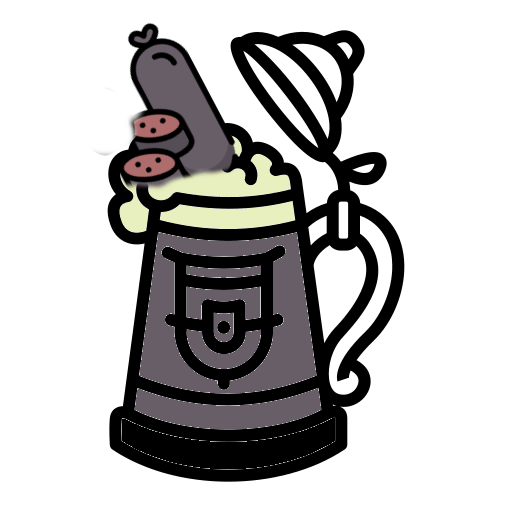
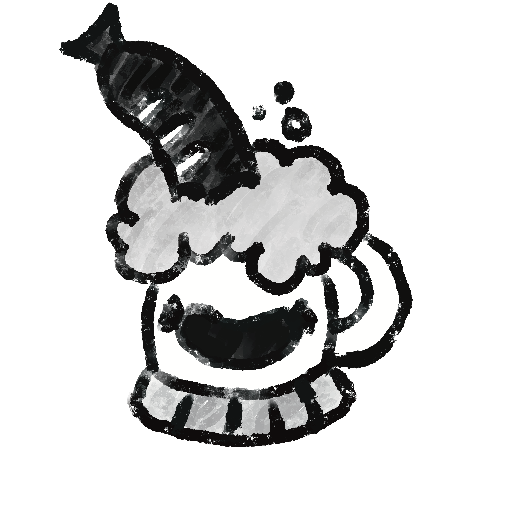
v1.2.1: refactored + end-of-moon support
v1.2.1: Refactored code-base to make it more maintainable + include the below updates:
- In general: wurst-beer is strong stuff, and it might not be the best idea to have your villagers drink it... Proceed with caution.
- Consuming wurst-beer causes drunkness (now also at end of moon event).
- Consuming blutwurst-beer causes drunkness + frenzy (now also at end of moon event).
- Tamed creatures really (really) don't like blutwurst-beer...(now also during end-of-moon event).
- New language support: Ukrainian
- New iconography for (blut)wurst-beer.

diff --git a/Mod.cs b/Mod.cs
@@ -17,13 +17,7 @@ namespace SausageFestModNS
 			WorldManager.instance.GameDataLoader.AddCardToSetCardBag(SetCardBagType.AdvancedFood, "sausagefestmod_blueprint_raw_blood_sausage", 1);
 			WorldManager.instance.GameDataLoader.AddCardToSetCardBag(SetCardBagType.AdvancedFood, "sausagefestmod_blueprint_blutwurst_beer", 1);
 			WorldManager.instance.GameDataLoader.AddCardToSetCardBag(SetCardBagType.AdvancedFood, "sausagefestmod_blueprint_wurst_beer", 1);
-
-			/*
-			* Define SausageFestQuest
-			*/
-			//Quest sausageFestQuest = new Quest()
-			//QuestManager.instance.CurrentQuests.Add(sausageFestQuest);
-
+			
 			Logger.Log("Thorrific's Sausage Fest is now ready! Bon appetit ;)");
         }
     }
@@ -110,9 +104,6 @@ namespace SausageFestModNS
 		}
 	}
 
-
-
-
 	/*
 	* Delirium tremens (DTs) is a severe form of alcohol withdrawal (existing in real life)
 	* that typically occurs in people who have been drinking heavily for an extended period 
@@ -121,13 +112,12 @@ namespace SausageFestModNS
 	* It is characterized by sudden and severe mental or nervous system changes.
 	* It is sometimes represented as seeing pink elephants.
 	*
-	* The "delirium tremes"-mob is a conceptual representation of the above.
-	* - It is angry & aggro when it occurs, wrecking havoc --> Mob
-	* - It can be "tamed" by feeding it strong beer, causing it to get drunk --> Animal
-	* - It becomes "aggro" again once it sobers up --> Mob.
+	* The "Delirium Tremes Wild" is a conceptual representation of the above:
+	* 1. It can spawn by having a villager drink (blood) sausage beer (5% chance)
+	* 2. It is tamed by drinking "sausage beer" (changing it into a DeliriumTremesTamed card)
+	* 3. It is frenzied by drinking "blood sausage beer"
 	*
-	* It's represented as two different creatures below.
-	* 
+	* It's represented as two different creatures below (wild-mob & tamed-villager)
 	*/
 	
 	/*
@@ -146,17 +136,17 @@ namespace SausageFestModNS
 		// this method decides whether a card should stack onto this one
 		protected override bool CanHaveCard(CardData otherCard)
 		{
-			if (otherCard.Id == "sausagefestmod_wurst_beer" || otherCard.Id == "sausagefestmod_blutwurst_beer")
+			if (otherCard is SausageFestWurstBeer)
 			{
 				return true;
 			}
-			return base.CanHaveCard(otherCard); // otherwise, we will let Animal.CanHaveCard decide
+			return false;
 		}
 		
 		// this method is called every frame, it is the CardData equivalent of the Update method
 		public override void UpdateCard()
 		{
-			if (MyGameCard.HasChild && (MyGameCard.Child.CardData.Id == "sausagefestmod_wurst_beer" || MyGameCard.Child.CardData.Id == "sausagefestmod_blutwurst_beer"))
+			if (MyGameCard.GetLeafCard().CardData is SausageFestWurstBeer)
 			{
 				MyGameCard.StartTimer(5f, DrinkingWurstBeer, SokLoc.Translate("sausagefestmod_action_drinking_wurstbeer_status"), GetActionId("DrinkingWurstBeer"));
 			}
@@ -170,23 +160,35 @@ namespace SausageFestModNS
 		[TimedAction("drinking_beer")]
 		public void DrinkingWurstBeer()
 		{
-			if (MyGameCard.HasChild)
+			CardData child = MyGameCard.GetLeafCard().CardData;
+			if (child is SausageFestWurstBeer) {
+				((SausageFestWurstBeer)child).ConsumedBy(this);
+				child.MyGameCard.DestroyCard(); // destroy consumed beer-card
+			}
+		}
+
+		/*
+		* Helper method to make a wild delirium tremes change into a tame version.
+		* It will also become Frenzy as a result of it.
+		*/
+		public static void MakeTame(Combatable vill)
+		{
+			if (vill.Id == "sausagefestmod_delirium_tremens_wild")
 			{
-				if (MyGameCard.Child.CardData.Id == "sausagefestmod_wurst_beer") // change into a friendly version
-				{
-					CardData cardData = WorldManager.instance.ChangeToCard(MyGameCard, "sausagefestmod_delirium_tremens_tamed");
-					MyGameCard.Child.DestroyCard(); // destroy consumed beer card
-					WorldManager.instance.CreateSmoke(cardData.transform.position);
-					cardData.AddStatusEffect(new StatusEffect_Drunk());
-					cardData.MyGameCard.SendIt();
-				}
-				else if (MyGameCard.Child.CardData.Id == "sausagefestmod_blutwurst_beer") // become frenzy
-				{
-					MyGameCard.Child.DestroyCard(); // destroy consumed beer card
-					WorldManager.instance.CreateSmoke(MyGameCard.transform.position);
-					RemoveAllStatusEffects(); // remove drunk if it was still there
-					AddStatusEffect(new StatusEffect_Frenzy());
-				}
+				CardData cardData = WorldManager.instance.ChangeToCard(vill.MyGameCard, "sausagefestmod_delirium_tremens_tamed");
+				WorldManager.instance.CreateSmoke(cardData.transform.position);
+				cardData.MyGameCard.SendIt();
+			}
+		}
+
+		
+		// Helper method to create a new wild delirium tremes (5% chance)
+		public static void CreateIfUnlucky(Vector3 position)
+		{
+			if (UnityEngine.Random.Range(0, 100) < 5)
+			{
+				CardData cardData = WorldManager.instance.CreateCard(position, "sausagefestmod_delirium_tremens_wild", checkAddToStack: false);
+				cardData.MyGameCard.SendIt();
 			}
 		}
 	}
@@ -195,7 +197,7 @@ namespace SausageFestModNS
 	* Create a class called DeliriumTremensTamed which extends the Mob class --> friendly (drunk) version
 	* It spawns when the aggro version is fed the right type of alcohol.
 	*/
-	public class DeliriumTremensTamed : Animal
+	public class DeliriumTremensTamed : Villager
 	{
 		// this method decides whether a card should stack onto this one
 		protected override bool CanHaveCard(CardData otherCard)
@@ -204,13 +206,15 @@ namespace SausageFestModNS
 			{
 				return true;
 			}
-			return base.CanHaveCard(otherCard); // otherwise, we will let Animal.CanHaveCard decide
+			else return false; //return base.CanHaveCard(otherCard); // otherwise, we will let Animal.CanHaveCard decide
 		}
+		
+		public override bool HasInventory  => false;
 		
 		// this method is called every frame, it is the CardData equivalent of the Update method
 		public override void UpdateCard()
 		{
-			if (MyGameCard.HasChild && (MyGameCard.Child.CardData.Id == "sausagefestmod_wurst_beer" || MyGameCard.Child.CardData.Id == "sausagefestmod_blutwurst_beer"))
+			if (MyGameCard.GetLeafCard().CardData is SausageFestWurstBeer)
 			{
 				MyGameCard.StartTimer(5f, DrinkingWurstBeer, SokLoc.Translate("sausagefestmod_action_drinking_wurstbeer_status"), GetActionId("DrinkingWurstBeer"));
 			}
@@ -224,23 +228,24 @@ namespace SausageFestModNS
 		[TimedAction("drinking_beer")]
 		public void DrinkingWurstBeer()
 		{
-			if (MyGameCard.HasChild && MyGameCard.Child.CardData.Id == "sausagefestmod_blutwurst_beer") // change into a aggro version with ***Blut*** Wurst Beer
-			{
-				CardData cardData = WorldManager.instance.ChangeToCard(MyGameCard, "sausagefestmod_delirium_tremens_wild");
-				MyGameCard.Child.DestroyCard(); // destroy consumed beer-card
-				WorldManager.instance.CreateSmoke(cardData.transform.position);
-				cardData.RemoveAllStatusEffects(); // To remove drunk, if it was still there
-				cardData.AddStatusEffect(new StatusEffect_Frenzy()); // becomes frenzy
-				cardData.MyGameCard.SendIt();
+			CardData child = MyGameCard.GetLeafCard().CardData;
+			if (child is SausageFestWurstBeer) {
+				((SausageFestWurstBeer)child).ConsumedBy(this);
+				child.MyGameCard.DestroyCard(); // destroy consumed beer-card
 			}
-			else if (MyGameCard.HasChild && MyGameCard.Child.CardData.Id == "sausagefestmod_wurst_beer") //remove wurst beer & keep drunk
+		}
+
+		/*
+		* Helper method to make a tamed delirium tremes change into a wild version.
+		* It will also become Frenzy as a result of it.
+		*/
+		public static void MakeWild(Combatable vill)
+		{
+			if (vill.Id == "sausagefestmod_delirium_tremens_tamed")
 			{
-				MyGameCard.Child.DestroyCard(); // destroy consumed beer card
-				WorldManager.instance.CreateSmoke(MyGameCard.transform.position);
-				
-				// Refresh state of drunk-ness (first remove old, then add new)
-				RemoveAllStatusEffects();
-				AddStatusEffect(new StatusEffect_Drunk());
+				CardData cardData = WorldManager.instance.ChangeToCard(vill.MyGameCard, "sausagefestmod_delirium_tremens_wild");
+				WorldManager.instance.CreateSmoke(cardData.transform.position);
+				cardData.MyGameCard.SendIt();
 			}
 		}
 	}
@@ -255,12 +260,21 @@ namespace SausageFestModNS
 	*/
 	public class SausageFestWurstBeer : Food
 	{
-		// this method is called every frame, it is the CardData equivalent of the Update method
+		public override void OnInitialCreate()
+		{
+			base.OnInitialCreate();
+			
+			ResultAction = "add:StatusEffect_Drunk";
+			if (Id == "sausagefestmod_blutwurst_beer") {
+				ResultAction += ";" + "add:StatusEffect_Frenzy";
+			}
+		}
+
 		public override void UpdateCard()
 		{
 			if (MyGameCard.HasParent)
 			{
-				if (MyGameCard.Parent.CardData is BaseVillager)
+				if (MyGameCard.Parent.CardData is Combatable && MyGameCard.Parent.CardData is not DeliriumTremensTamed && MyGameCard.Parent.CardData is not DeliriumTremensWild)
 				{
 					MyGameCard.StartTimer(5f, DrinkingWurstBeer, SokLoc.Translate("sausagefestmod_action_drinking_wurstbeer_status"), GetActionId("DrinkingWurstBeer"));
 				}
@@ -275,52 +289,36 @@ namespace SausageFestModNS
 		[TimedAction("drinking_beer")]
 		public void DrinkingWurstBeer()
 		{
-			if (MyGameCard.HasParent)
+			if (MyGameCard.HasParent && MyGameCard.Parent.CardData is Combatable)
 			{
-				// If the (blood) wurst beer is consumed by a villager, potentially spawn a delirium tremes mob
-				if (MyGameCard.Parent.CardData is BaseVillager)
-				{
-					WorldManager.instance.CreateSmoke(base.transform.position);
-					MyGameCard.Parent.CardData.RemoveAllStatusEffects();
-					MyGameCard.Parent.CardData.AddStatusEffect(new StatusEffect_Drunk()); // Make villager drunk
-					MyGameCard.DestroyCard(); // Destroy consumed beer card
-					AudioManager.me.PlaySound(AudioManager.me.Eat, Position); // play the eating sound at the delirum tremens position	
+				ConsumedBy((Combatable)MyGameCard.Parent.CardData);
+				MyGameCard.Child.DestroyCard(); // destroy consumed beer card
+			}
+		}
 
-					if (UnityEngine.Random.Range(0, 100) < 5) // 5% chance to summon delirium tremens (wild)
-					{
-						CardData cardData = WorldManager.instance.CreateCard(base.transform.position, "sausagefestmod_delirium_tremens_wild", checkAddToStack: false);
-						cardData.MyGameCard.SendIt();
-						//WorldManager.instance.StackSendCheckTarget(MyGameCard, cardData.MyGameCard, OutputDir);
-					}
+
+		// If the current food consumed is a "Blood Sausage Beer" && it is consumed by a Tamed Delirium Tremens --> then make it wild.
+		public override void ConsumedBy(Combatable vill)
+		{
+			base.ConsumedBy(vill);
+			//AudioManager.me.PlaySound(AudioManager.me.Eat, Position); 
+			
+			if (vill.Id == "sausagefestmod_delirium_tremens_tamed") {
+				if (Id == "sausagefestmod_blutwurst_beer") { // If tamed-version consumed blutwurst-beer
+					DeliriumTremensTamed.MakeWild(vill); // Make wild
 				}
+			}
+			else if (vill.Id == "sausagefestmod_delirium_tremens_wild") {
+				if (Id == "sausagefestmod_wurst_beer") {  // If wild-version consumed regular wurst-beer
+					DeliriumTremensWild.MakeTame(vill); // Make tame
+				}
+			}
+			else // otherwise something else, with 5% chance to trigger a new Delirium Tremes mob
+			{
+				DeliriumTremensWild.CreateIfUnlucky(base.transform.position);
 			}
 		}
 	}
-
-/*
-	public class SausageFestQuest : Quest
-	{
-		
-		//public string Id => "SausageFestQuest";
-		public Location QuestLocation
-		{
-			return Location.Mainland.Value;
-		}
-
-		public bool IsMainQuest
-		{
-			return true; // to check
-		}
-
-		//public string Id;
-
-
-		public Quest(string id)
-		{
-			Id = id;
-		}
-	}
-	*/
 
 /*
 	public class VillagerDwarfScout : Villager
